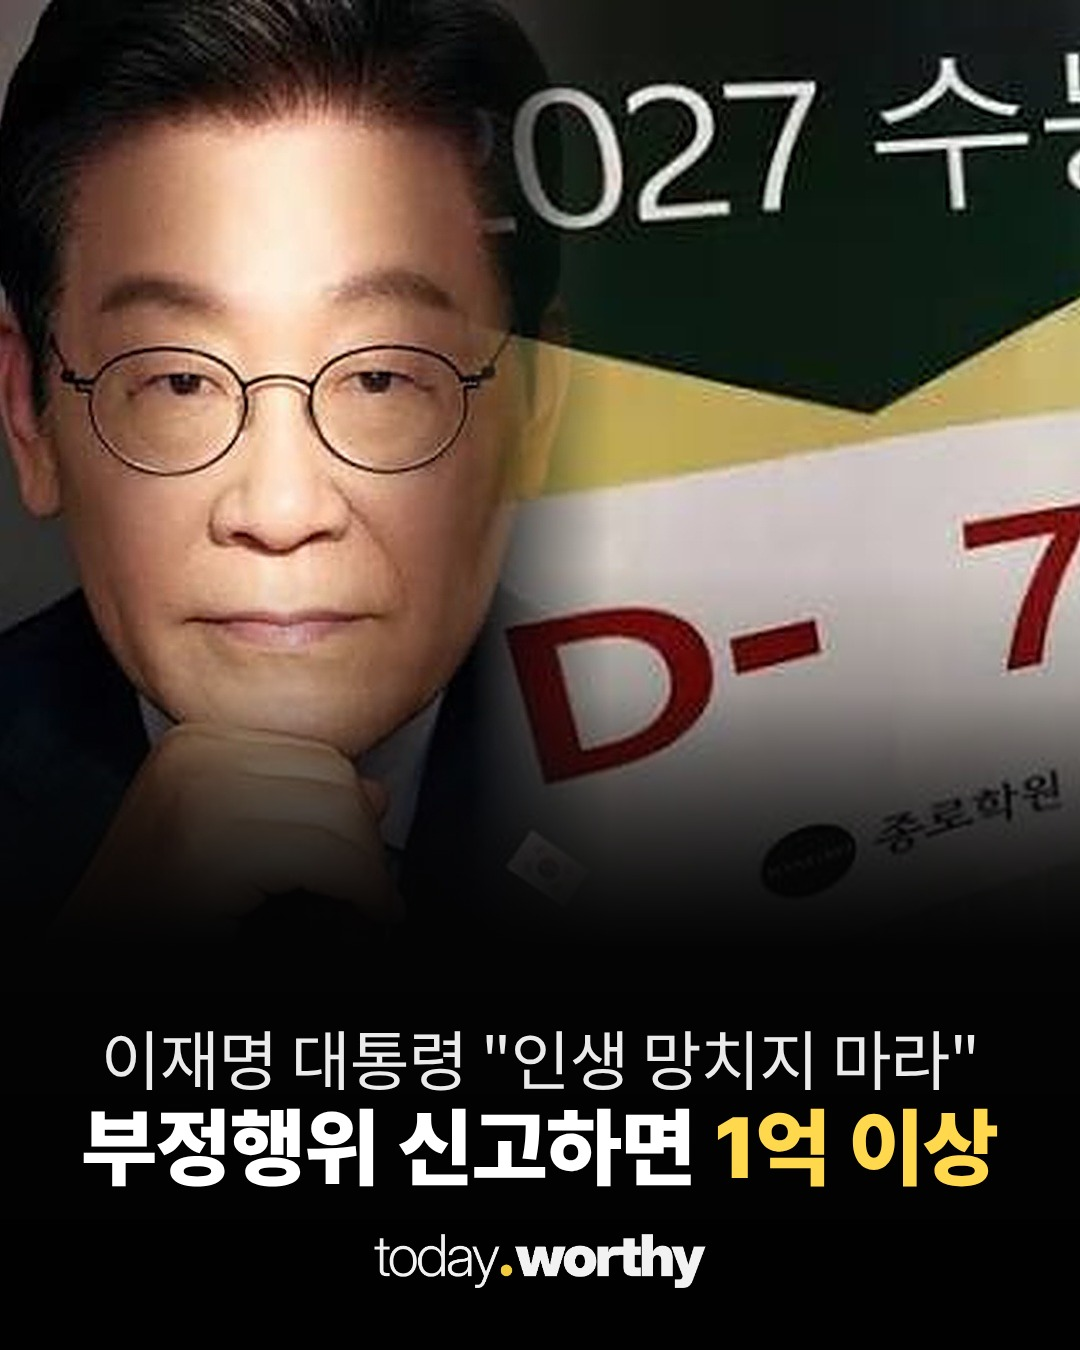
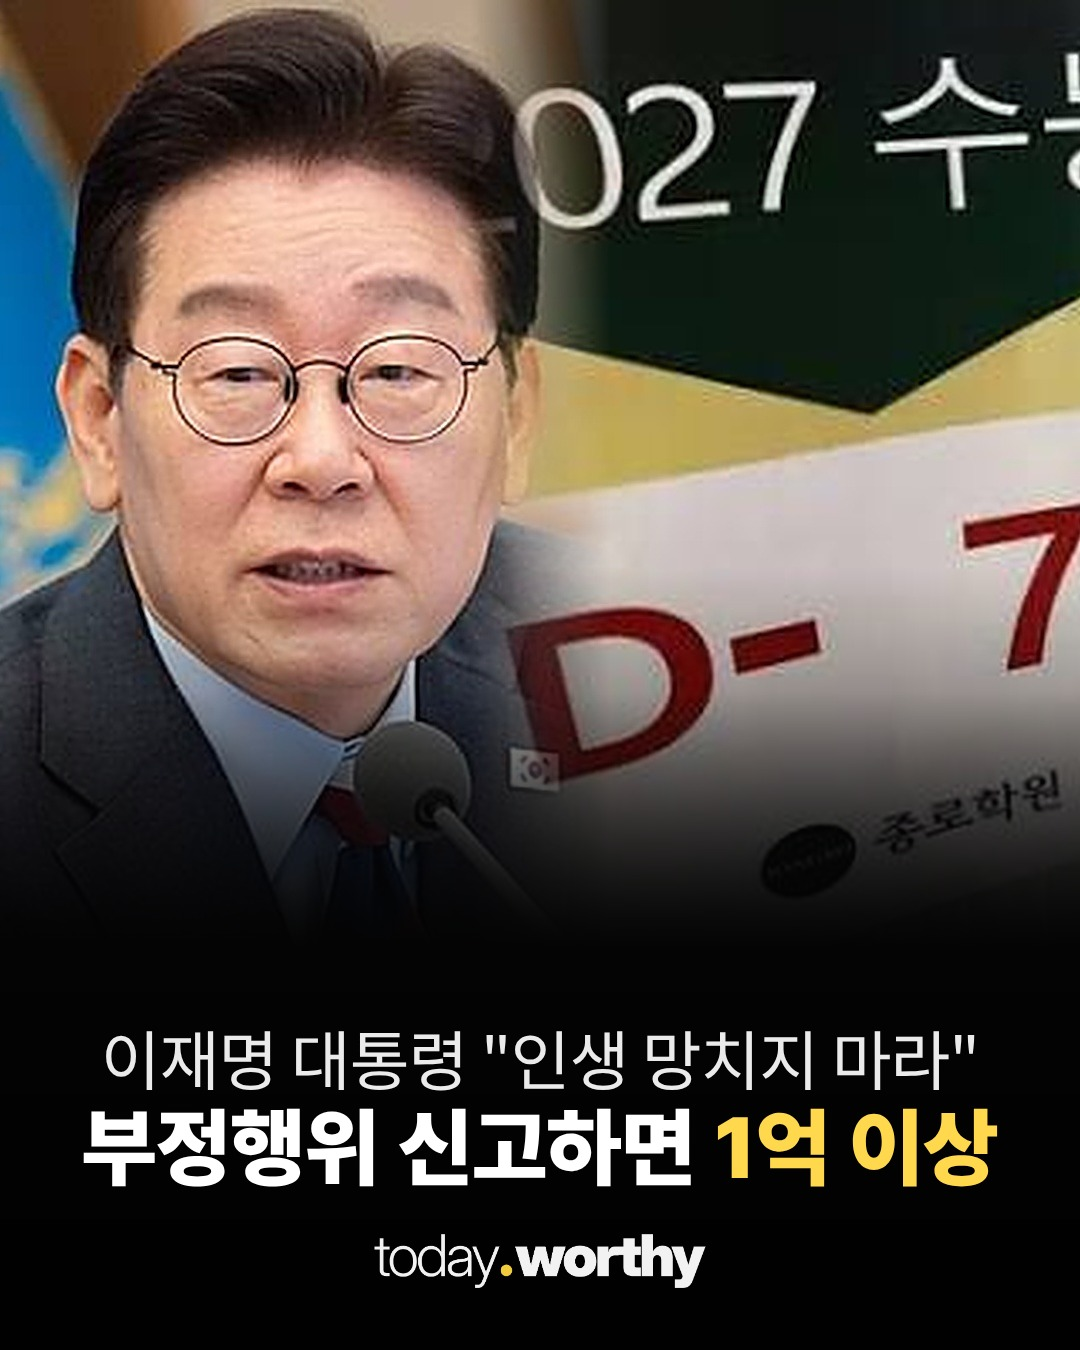
ljm 표지: 대통령 사진 교체
Claude-Session: https://claude.ai/code/session_01FGsw5QnWxFUsnopcB1Czie

Changed region(s): [[0.0, 0.0, 0.55, 0.6533]]

diff --git a/media/20261117-ljm/build_card.py b/media/20261117-ljm/build_card.py
@@ -33,7 +33,7 @@ logo(im); im.save(Path(__file__).parent / "cand" / "c02_rebuilt_unused.jpg", qua
 # 표지 배경(사용자 지정): 왼쪽 대통령 사진, 오른쪽 수능 D-7 학원 사진(뉴스1) 나란히, 경계 페이드. 아래는 글자 자리로 어둡게.
 # D-7 사진 위쪽 '11월 12일(목)' 글씨는 이번 수능 날짜(19일)와 달라 잘라냄.
 from PIL import ImageFilter, ImageOps
-A = Image.open(Path(__file__).parent / "cand" / "user_photo.jpg").convert("RGB").crop((110, 0, 450, 365))
+A = Image.open(Path(__file__).parent / "cand" / "user_photo2.png").convert("RGB")  # 2026-11-17 사용자 교체 사진
 B = Image.open(Path(__file__).parent / "cand" / "user_d7.jpg").convert("RGB").crop((0, 88, 300, 369))
 TH = 950
 A = ImageOps.fit(A, (620, TH), Image.LANCZOS, centering=(.5, 0)).filter(ImageFilter.UnsharpMask(2, 60, 2))
